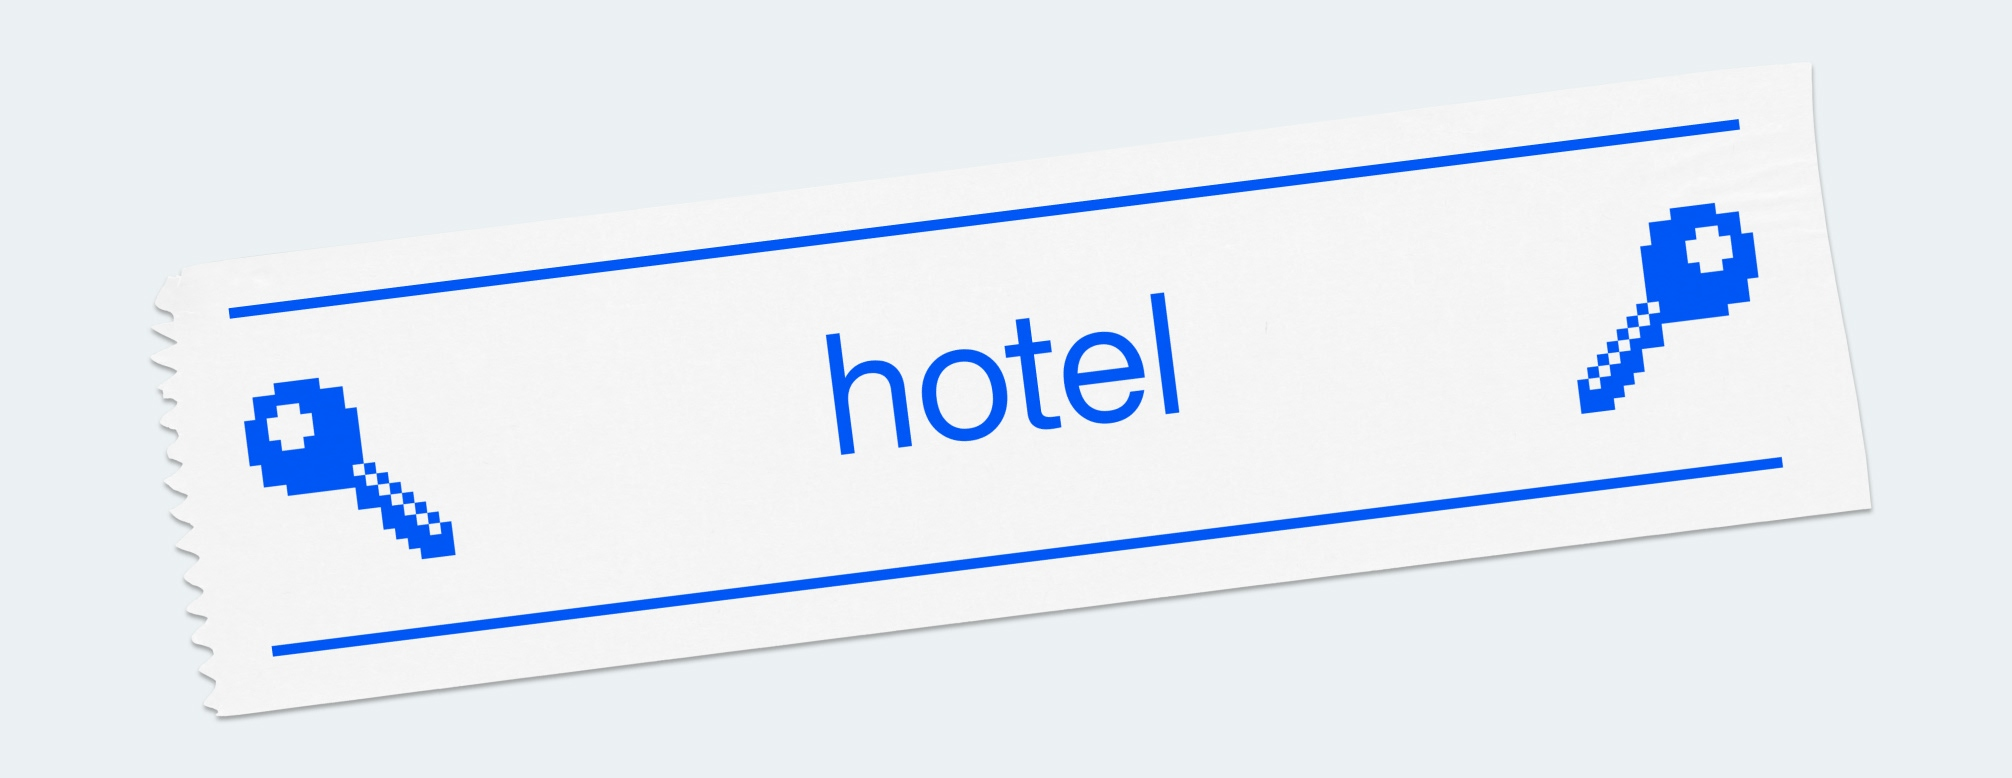
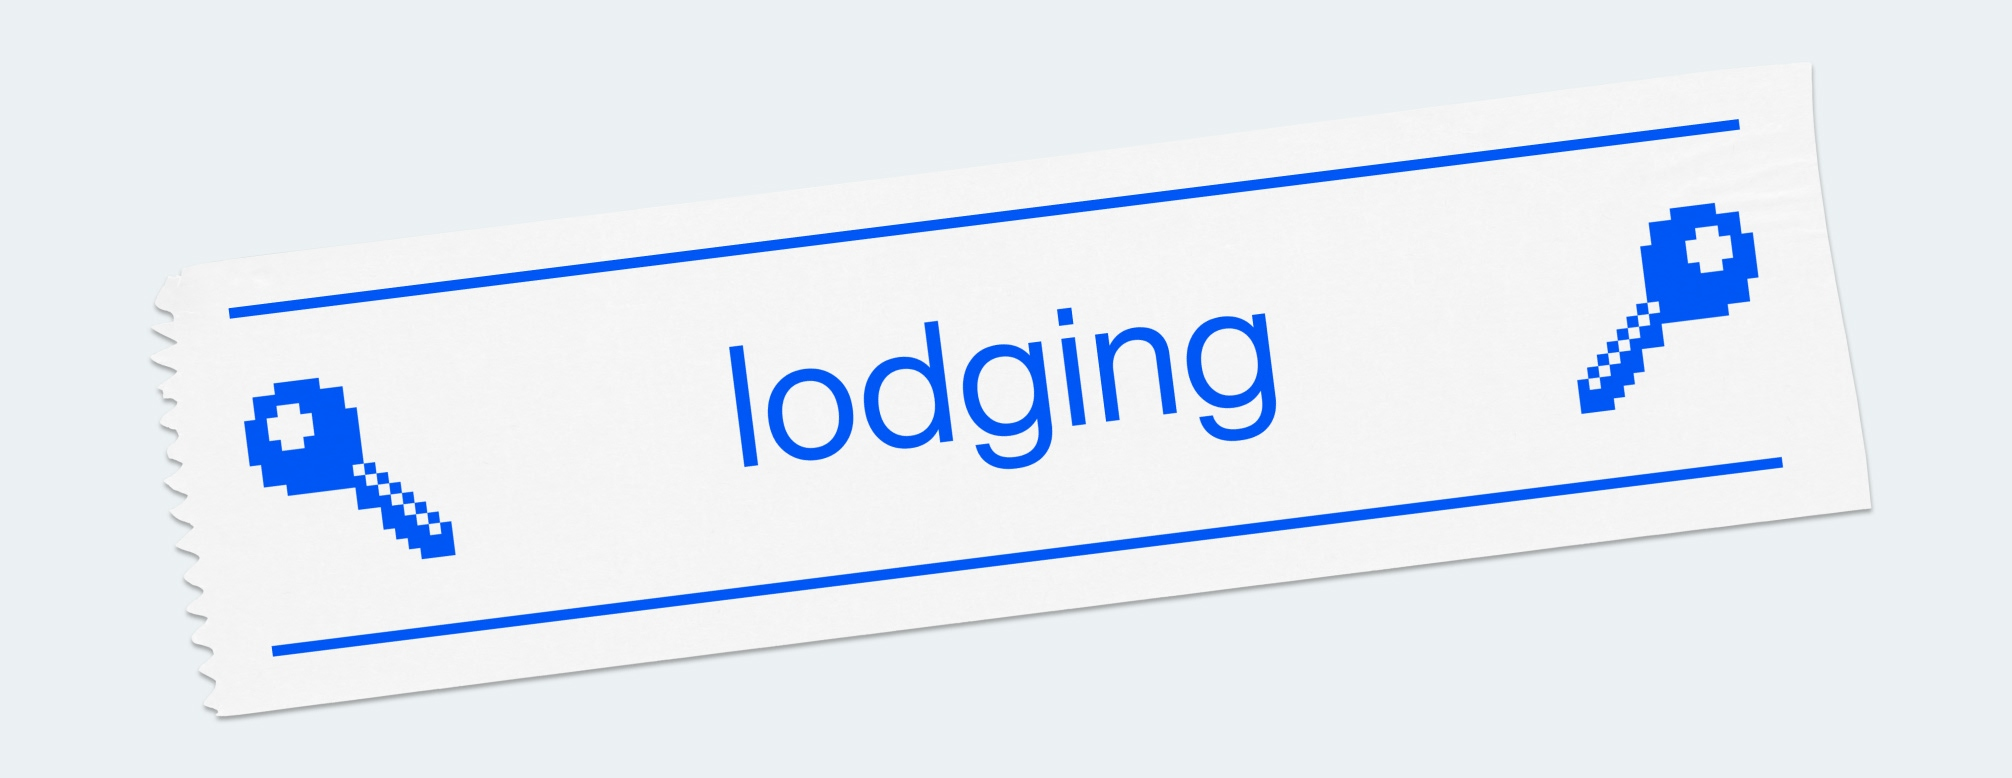
Updated travel and hotel copy, change hotel to lodging

Changed region(s): [[0.339, 0.3702, 0.6471, 0.617]]

diff --git a/index.html b/index.html
@@ -53,7 +53,7 @@
 						</a>
 						<a class='menu-item' href='#hotel'>
 							<img class='menu-icon' src='images/icon-key.svg'>
-							<span>hotel</span>
+							<span>lodging</span>
 						</a>
 						<a class='menu-item' href='#to-do'>
 							<img class='menu-icon' src='images/icon-scene.svg'>
@@ -110,7 +110,7 @@
 					<div id='travel-copy'>
 						If you are traveling from out of town, we always recommend flying into Burbank Airport which is a smaller airport (less hectic) and closer to our events. If you fly into LAX, consider taking the FlyAway bus, which drops you off at Union Station in downtown LA. You can read our very detailed LAX transportation guide <a href='https://docs.google.com/document/d/1FdmaeANZTyDP9mmVtfQWCyPX4mrd7D6Lqc6x9_KE4jY/edit?tab=t.0' target='_blank'>here</a>.
 						<br><br>
-						Our events are located in Echo Park and Silver Lake, so we recommend looking for lodging on the east side of Los Angeles - neighborhoods nearby include Echo Park, Silver Lake, Los Feliz, Downtown Los Angeles, Chinatown, Atwater Village, Frogtown, Cypress Park, Glassell Park, and Lincoln Heights. We recommend taking rideshare or <a href='https://www.taptogo.net/' target="_blank">public transportation</a> to get to our events. LA is a car-based city, so renting a car is a good option if you’d like to do some more exploring of the city.
+						We recommend taking rideshare or <a href='https://www.taptogo.net/' target="_blank">public transportation</a> to get to our events. LA is a car-based city, so renting a car is a good option if you’d like to do some more exploring of the city.
 						<img class='pixel-icon' src='images/icon-sparkle1.svg'>
 					</div>
 					<img id='photo-travel2' class='polaroid' src='images/photo-travel2.jpg'>
@@ -120,7 +120,7 @@
 				<img class='label' src='images/label-hotel.jpg'>
 				<div id='hotel-content'>
 					<div id='hotel-copy'>
-						Our events are centered around East Los Angeles, so we recommend staying at an Airbnb or hotel near Echo Park, Downtown, Silverlake, etc.
+						Our events are located in Echo Park and Silver Lake, so we recommend looking for lodging on the east side of Los Angeles - neighborhoods nearby include Echo Park, Silver Lake, Los Feliz, Downtown Los Angeles, Chinatown, Atwater Village, Frogtown, Cypress Park, Glassell Park, and Lincoln Heights.
 						<br><br>
 						<span>Hotel Room Block:</span> We have a room block with discounted rates at the VERY funky Westin Bonaventure in Downtown LA ~20 mins from all venues, where countless famous movies have been shot, as well as <a href='https://www.architecturaldigest.com/story/inside-the-design-of-rihannas-slick-star-studded-savage-x-fenty-fashion-show' target='_blank'>this insane Fenty fashion show</a>. They have a 360 rotating bar at the top, not to be missed, unless you get nauseous easily. You can book rooms <a href='https://www.marriott.com/event-reservations/reservation-link.mi?id=1759159947971&key=GRP&app=resvlink&inventoryMissing=true' target='_blank'>here</a> <span>[must be booked by May 1st]</span>.
 						<br><br>

diff --git a/css/style.css b/css/style.css
@@ -757,7 +757,7 @@ button {
 	}
 
 	#travel-content {
-		grid-template: 1fr 1fr / 1fr;
+		grid-template: 1fr 1.3fr / 1fr;
 		align-items: start;
 		width: 65%;
 	}
